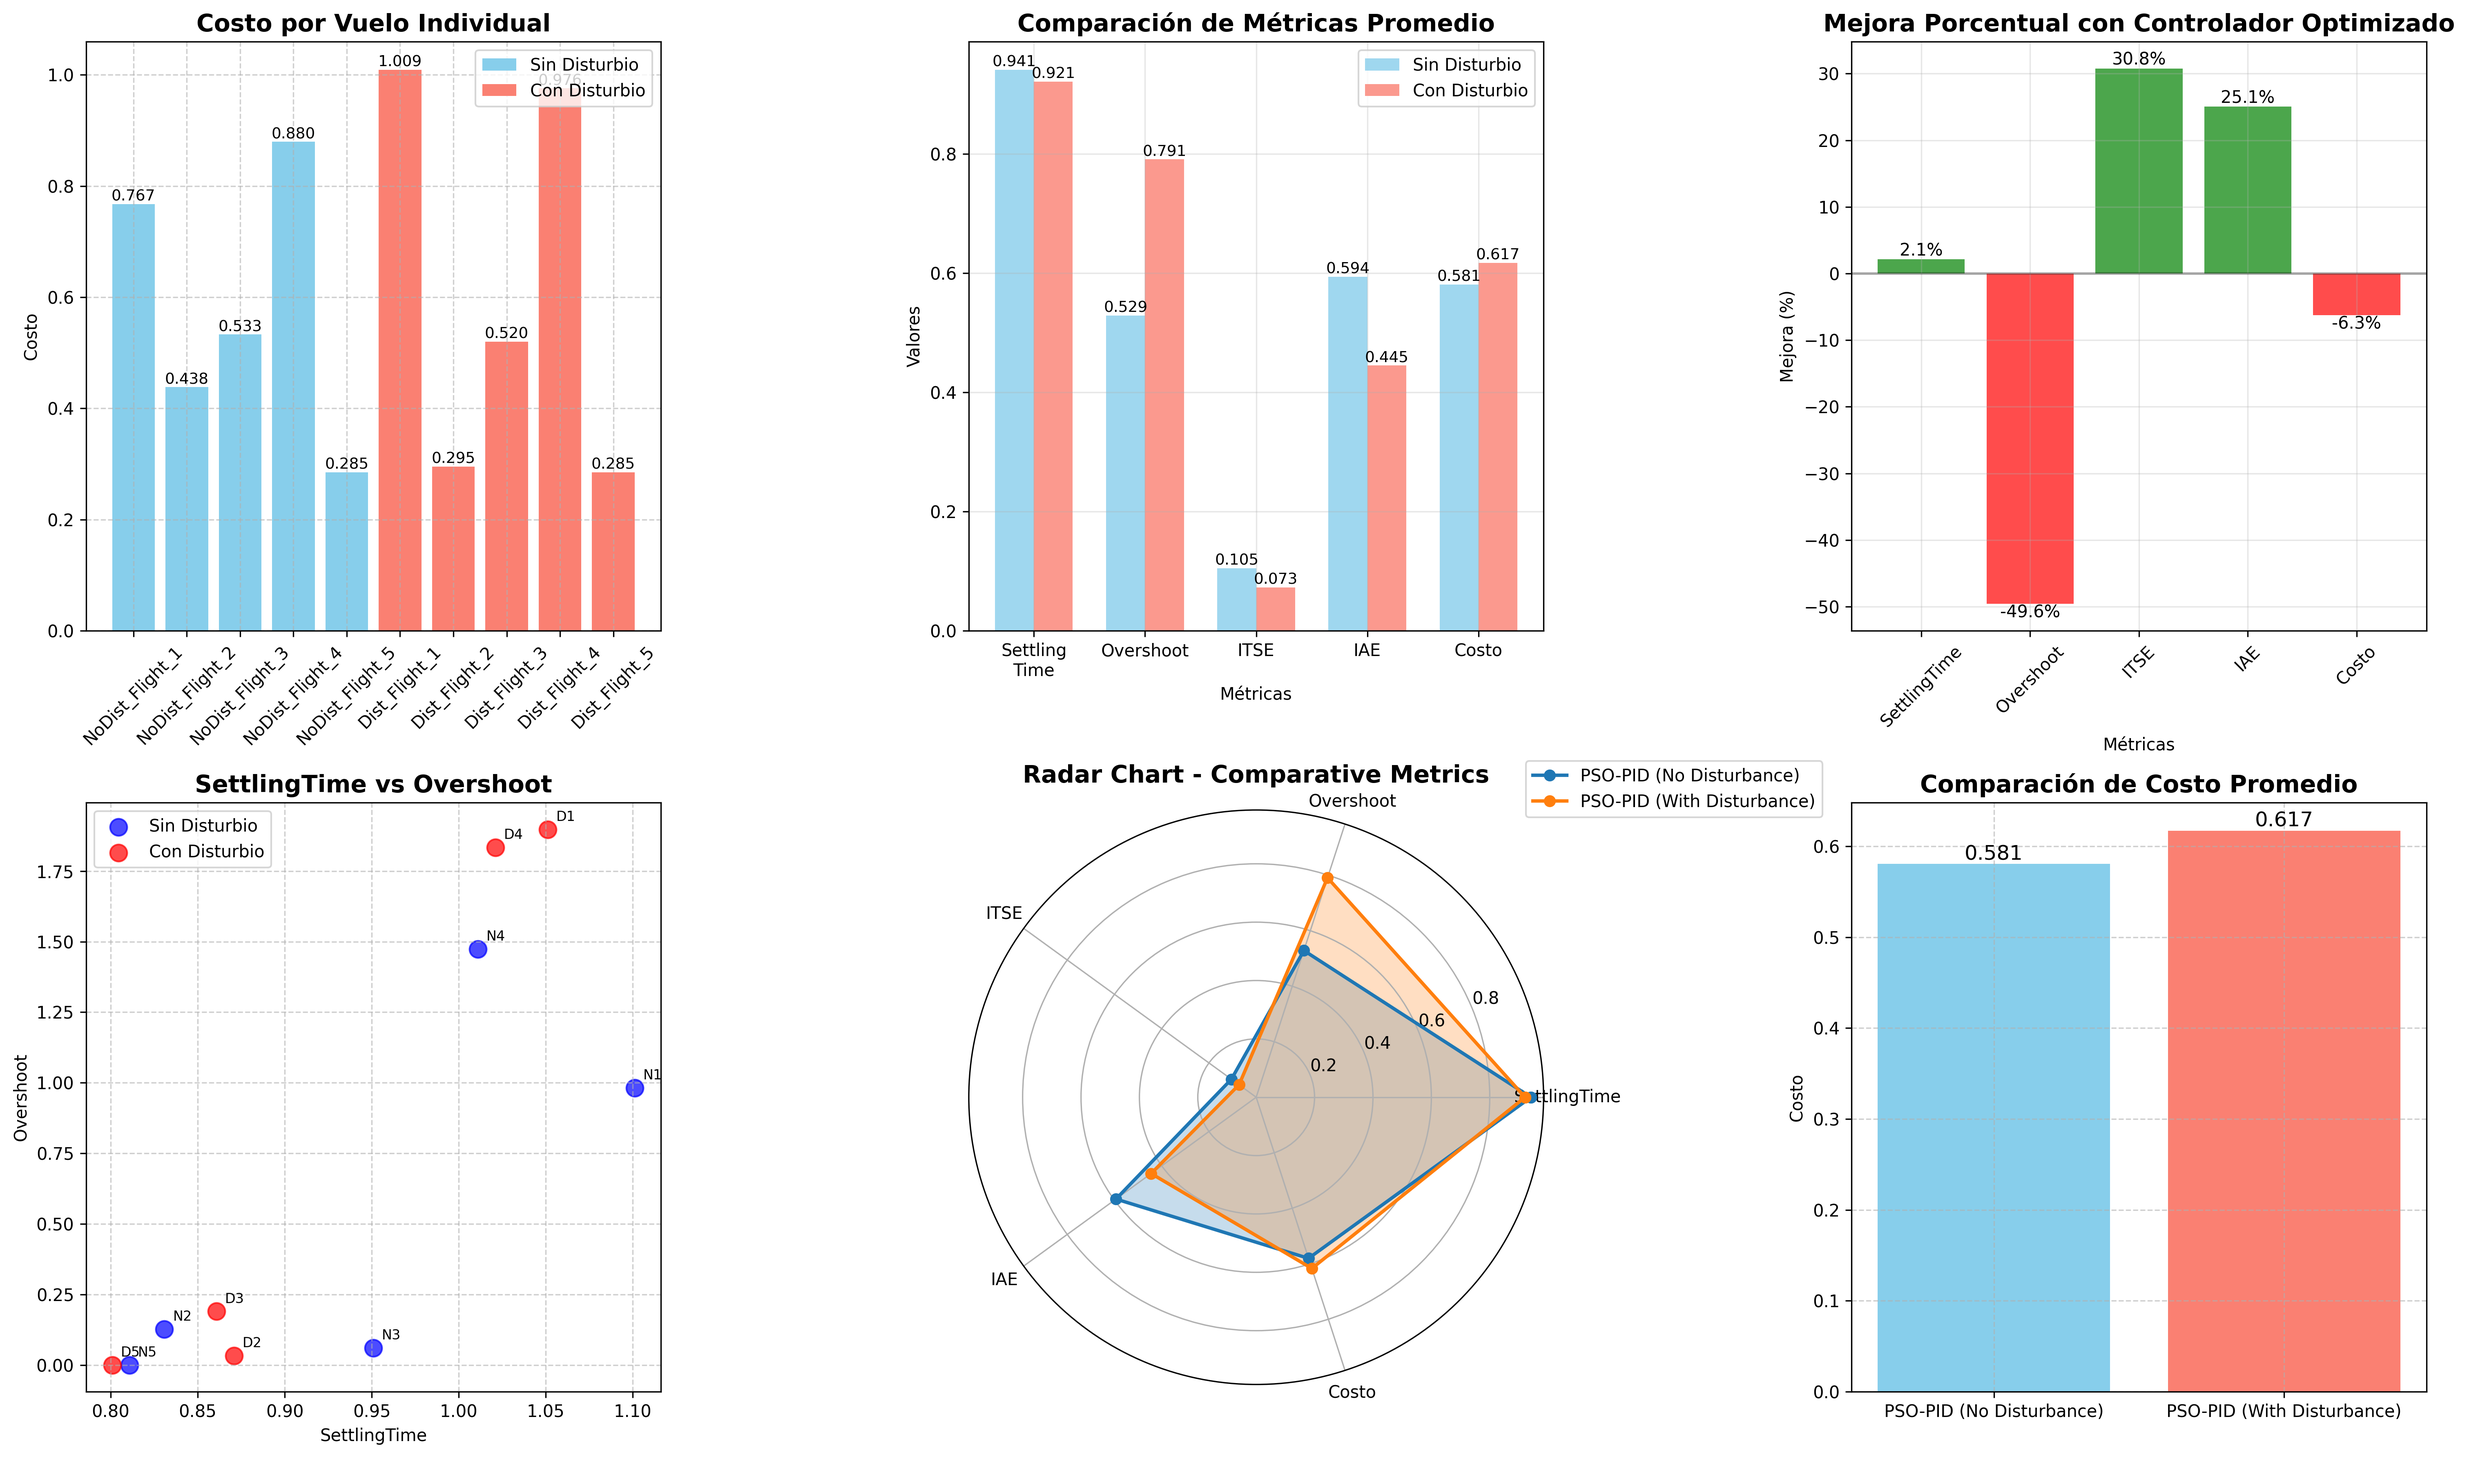
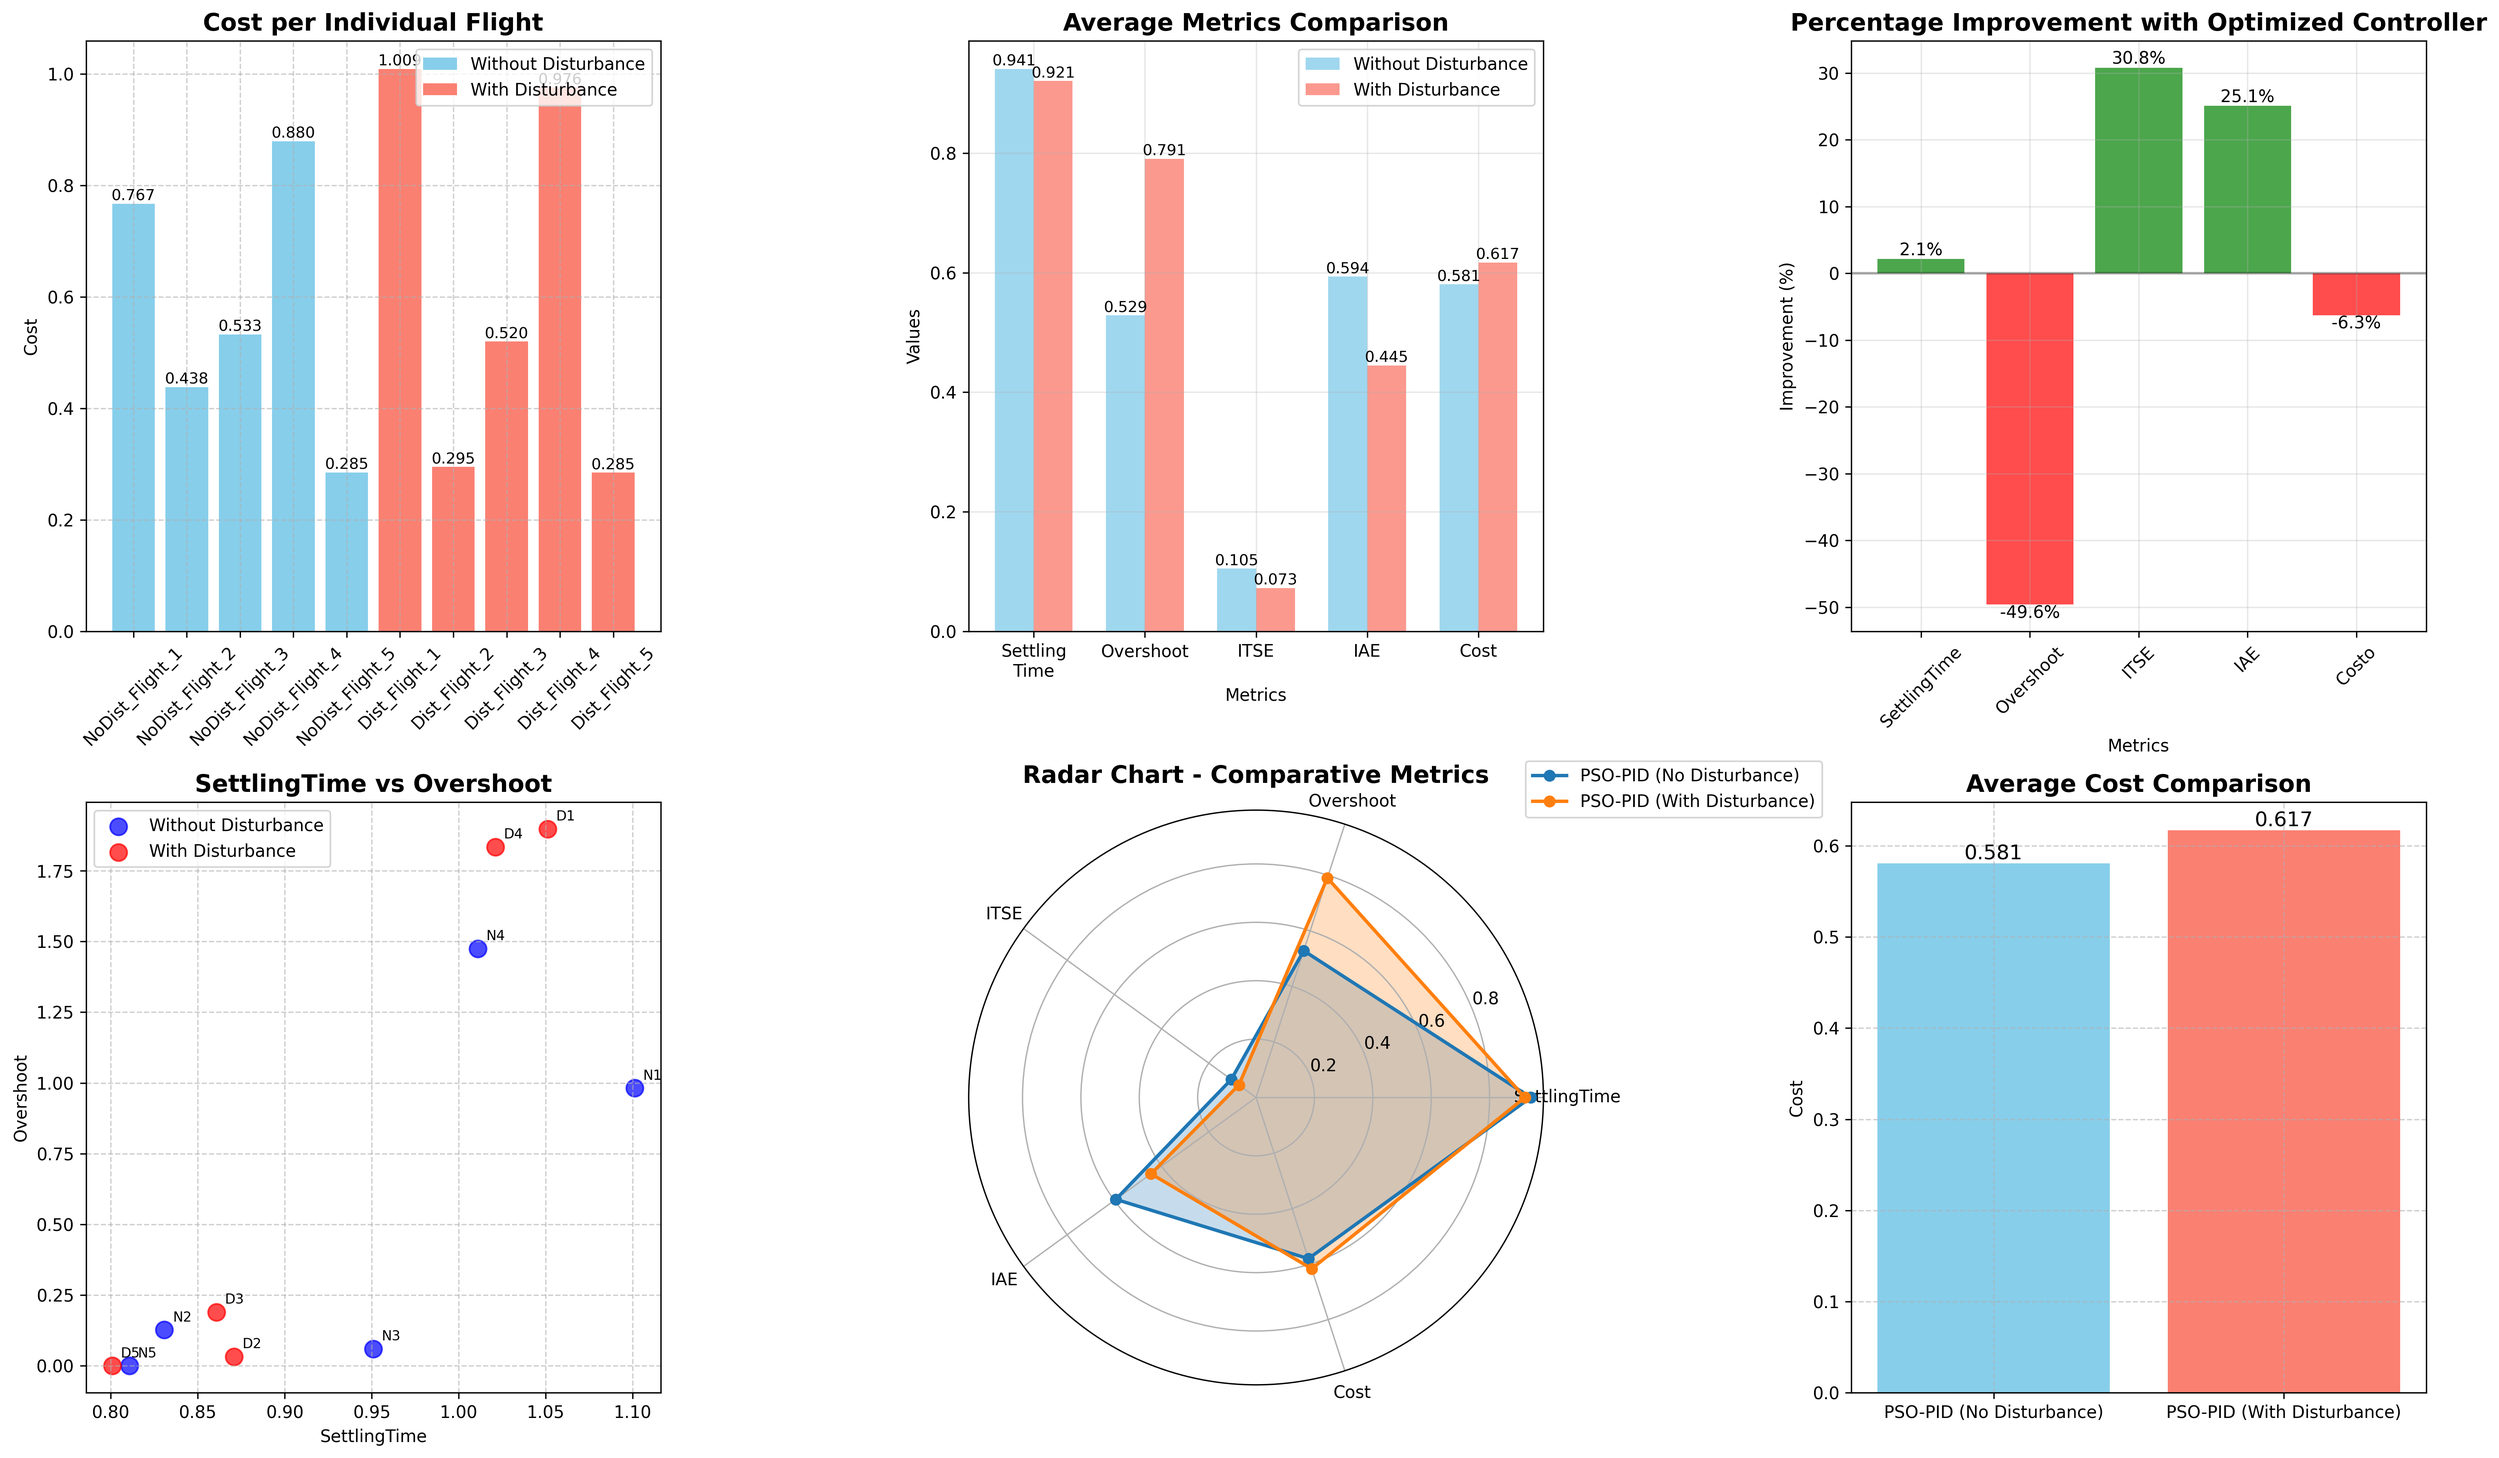
update

diff --git a/Comparison.py b/Comparison.py
@@ -4,10 +4,10 @@ import numpy as np
 from matplotlib.patches import Patch
 
 # ==========================================================
-# Resultados obtenidos
+# Results Obtained
 # ==========================================================
 
-# --- Resultados SIN disturbio ---
+# --- Results WITHOUT disturbance ---
 resultados_no_dist = [
     [1.101101101, 0.981613847, 0.08759185 , 0.625743666],
     [0.830830831, 0.127173193, 0.112271798, 0.642020181],
@@ -16,7 +16,7 @@ resultados_no_dist = [
     [0.810810811, 0.0        , 0.011456358, 0.197389013]
 ]
 
-# --- Resultados CON disturbio ---
+# --- Results WITH disturbance ---
 resultados_dist = [
     [1.051051051, 1.897292264, 0.075040146, 0.548239485],
     [0.870870871, 0.032821126, 0.003134391, 0.11741169 ],
@@ -26,7 +26,7 @@ resultados_dist = [
 ]
 
 # ==========================================================
-# Crear DataFrames
+# Create DataFrames
 # ==========================================================
 df_no_dist = pd.DataFrame(resultados_no_dist, columns=["SettlingTime","Overshoot","ITSE","IAE"])
 df_disturbio = pd.DataFrame(resultados_dist, columns=["SettlingTime","Overshoot","ITSE","IAE"])
@@ -41,7 +41,7 @@ df_disturbio['Type'] = 'With Disturbance'
 df_combined = pd.concat([df_no_dist, df_disturbio], ignore_index=True)
 
 # ==========================================================
-# Definir pesos de la función de costo
+# Define cost function weights
 # ==========================================================
 w_settle, w_overshoot, w_itse, w_iae = 0.3, 0.3, 0.2, 0.2
 
@@ -51,13 +51,13 @@ def cost_function(settle, overshoot, itse, iae):
             w_itse*itse +
             w_iae*iae)
 
-# Agregar columna de costo
+# Add cost column
 df_no_dist["Costo"] = df_no_dist.apply(lambda row: cost_function(row["SettlingTime"], row["Overshoot"], row["ITSE"], row["IAE"]), axis=1)
 df_disturbio["Costo"] = df_disturbio.apply(lambda row: cost_function(row["SettlingTime"], row["Overshoot"], row["ITSE"], row["IAE"]), axis=1)
 df_combined["Costo"] = df_combined.apply(lambda row: cost_function(row["SettlingTime"], row["Overshoot"], row["ITSE"], row["IAE"]), axis=1)
 
 # ==========================================================
-# Calcular promedios y mejoras
+# Calculate averages and improvements
 # ==========================================================
 resumen = pd.DataFrame({
     "Controller": ["PSO-PID (No Disturbance)", "PSO-PID (With Disturbance)"],
@@ -83,24 +83,24 @@ resumen_improvement = pd.DataFrame({
     "Improvement (%)": improvements
 })
 
-print("\n=== Tabla comparativa de promedios ===\n")
+print("\n=== Comparative Averages Table ===\n")
 print(resumen)
 
-print("\n=== Mejora porcentual ===\n")
+print("\n=== Percentage Improvement ===\n")
 print(resumen_improvement)
 
 # ==========================================================
-# Visualización mejorada para presentación
+# Enhanced visualization for presentation
 # ==========================================================
 plt.style.use('default')
 fig = plt.figure(figsize=(20, 12))
 
-# 1. Comparación de costos individuales
+# 1. Individual cost comparison
 ax1 = plt.subplot(2, 3, 1)
 colors = ['skyblue']*5 + ['salmon']*5
 bars = ax1.bar(df_combined['Flight'], df_combined['Costo'], color=colors)
-ax1.set_title("Costo por Vuelo Individual", fontsize=14, fontweight='bold')
-ax1.set_ylabel("Costo")
+ax1.set_title("Cost per Individual Flight", fontsize=14, fontweight='bold')
+ax1.set_ylabel("Cost")
 ax1.tick_params(axis='x', rotation=45)
 ax1.grid(True, linestyle="--", alpha=0.6)
 
@@ -111,11 +111,11 @@ for bar in bars:
             f'{height:.3f}', ha='center', va='bottom', fontsize=9)
 
 # Add legend
-legend_elements = [Patch(facecolor='skyblue', label='Sin Disturbio'),
-                  Patch(facecolor='salmon', label='Con Disturbio')]
+legend_elements = [Patch(facecolor='skyblue', label='Without Disturbance'),
+                  Patch(facecolor='salmon', label='With Disturbance')]
 ax1.legend(handles=legend_elements, loc='upper right')
 
-# 2. Comparación de métricas promedio
+# 2. Average metrics comparison
 ax2 = plt.subplot(2, 3, 2)
 metrics = ['SettlingTime', 'Overshoot', 'ITSE', 'IAE', 'Costo']
 x_pos = np.arange(len(metrics))
@@ -124,14 +124,14 @@ width = 0.35
 no_dist_vals = [resumen.iloc[0][m] for m in metrics]
 with_dist_vals = [resumen.iloc[1][m] for m in metrics]
 
-bars1 = ax2.bar(x_pos - width/2, no_dist_vals, width, label='Sin Disturbio', alpha=0.8, color='skyblue')
-bars2 = ax2.bar(x_pos + width/2, with_dist_vals, width, label='Con Disturbio', alpha=0.8, color='salmon')
+bars1 = ax2.bar(x_pos - width/2, no_dist_vals, width, label='Without Disturbance', alpha=0.8, color='skyblue')
+bars2 = ax2.bar(x_pos + width/2, with_dist_vals, width, label='With Disturbance', alpha=0.8, color='salmon')
 
-ax2.set_xlabel('Métricas')
-ax2.set_ylabel('Valores')
-ax2.set_title('Comparación de Métricas Promedio', fontsize=14, fontweight='bold')
+ax2.set_xlabel('Metrics')
+ax2.set_ylabel('Values')
+ax2.set_title('Average Metrics Comparison', fontsize=14, fontweight='bold')
 ax2.set_xticks(x_pos)
-ax2.set_xticklabels(['Settling\nTime', 'Overshoot', 'ITSE', 'IAE', 'Costo'])
+ax2.set_xticklabels(['Settling\nTime', 'Overshoot', 'ITSE', 'IAE', 'Cost'])
 ax2.legend()
 ax2.grid(True, alpha=0.3)
 
@@ -142,13 +142,13 @@ for bars in [bars1, bars2]:
         ax2.text(bar.get_x() + bar.get_width()/2., height,
                 f'{height:.3f}', ha='center', va='bottom', fontsize=9)
 
-# 3. Mejora porcentual
+# 3. Percentage improvement
 ax3 = plt.subplot(2, 3, 3)
 colors = ['green' if imp > 0 else 'red' for imp in resumen_improvement['Improvement (%)']]
 bars = ax3.bar(resumen_improvement['Metric'], resumen_improvement['Improvement (%)'], color=colors, alpha=0.7)
-ax3.set_xlabel('Métricas')
-ax3.set_ylabel('Mejora (%)')
-ax3.set_title('Mejora Porcentual con Controlador Optimizado', fontsize=14, fontweight='bold')
+ax3.set_xlabel('Metrics')
+ax3.set_ylabel('Improvement (%)')
+ax3.set_title('Percentage Improvement with Optimized Controller', fontsize=14, fontweight='bold')
 ax3.axhline(y=0, color='black', linestyle='-', alpha=0.3)
 ax3.tick_params(axis='x', rotation=45)
 ax3.grid(True, alpha=0.3)
@@ -159,19 +159,19 @@ for bar in bars:
     ax3.text(bar.get_x() + bar.get_width()/2., height,
             f'{height:.1f}%', ha='center', va='bottom' if height > 0 else 'top', fontsize=10)
 
-# 4. Scatter plot de SettlingTime vs Overshoot
+# 4. Scatter plot of SettlingTime vs Overshoot
 ax4 = plt.subplot(2, 3, 4)
-scatter1 = ax4.scatter(df_no_dist['SettlingTime'], df_no_dist['Overshoot'], color='blue', 
-            label='Sin Disturbio', s=100, alpha=0.7)
-scatter2 = ax4.scatter(df_disturbio['SettlingTime'], df_disturbio['Overshoot'], color='red', 
-            label='Con Disturbio', s=100, alpha=0.7)
+scatter1 = ax4.scatter(df_no_dist['SettlingTime'], df_no_dist['Overshoot'], color='blue',
+            label='Without Disturbance', s=100, alpha=0.7)
+scatter2 = ax4.scatter(df_disturbio['SettlingTime'], df_disturbio['Overshoot'], color='red',
+            label='With Disturbance', s=100, alpha=0.7)
 
 # Add flight labels
 for i, row in df_no_dist.iterrows():
-    ax4.annotate(f'N{i+1}', (row['SettlingTime'], row['Overshoot']), 
+    ax4.annotate(f'N{i+1}', (row['SettlingTime'], row['Overshoot']),
                 xytext=(5, 5), textcoords='offset points', fontsize=8)
 for i, row in df_disturbio.iterrows():
-    ax4.annotate(f'D{i+1}', (row['SettlingTime'], row['Overshoot']), 
+    ax4.annotate(f'D{i+1}', (row['SettlingTime'], row['Overshoot']),
                 xytext=(5, 5), textcoords='offset points', fontsize=8)
 
 ax4.set_title("SettlingTime vs Overshoot", fontsize=14, fontweight='bold')
@@ -182,14 +182,14 @@ ax4.grid(True, linestyle="--", alpha=0.6)
 
 # 5. Radar chart
 ax5 = plt.subplot(2, 3, 5, polar=True)
-labels = ["SettlingTime", "Overshoot", "ITSE", "IAE", "Costo"]
+labels = ["SettlingTime", "Overshoot", "ITSE", "IAE", "Cost"]
 num_vars = len(labels)
 
-# Valores promedio
+# Average values
 no_dist_values = resumen.iloc[0,1:].values.tolist()
 dist_values = resumen.iloc[1,1:].values.tolist()
 
-# Cerrar el radar (último punto = primer punto)
+# Close the radar (last point = first point)
 angles = np.linspace(0, 2*np.pi, num_vars, endpoint=False).tolist()
 no_dist_values += no_dist_values[:1]
 dist_values += dist_values[:1]
@@ -205,11 +205,11 @@ ax5.set_thetagrids(np.degrees(angles[:-1]), labels)
 ax5.set_title("Radar Chart - Comparative Metrics", fontsize=14, fontweight='bold')
 ax5.legend(loc="upper right", bbox_to_anchor=(1.5, 1.1))
 
-# 6. Costo promedio
+# 6. Average Cost
 ax6 = plt.subplot(2, 3, 6)
 bars = ax6.bar(resumen["Controller"], resumen["Costo"], color=["skyblue","salmon"])
-ax6.set_title("Comparación de Costo Promedio", fontsize=14, fontweight='bold')
-ax6.set_ylabel("Costo")
+ax6.set_title("Average Cost Comparison", fontsize=14, fontweight='bold')
+ax6.set_ylabel("Cost")
 ax6.grid(True, linestyle="--", alpha=0.6)
 
 # Add value labels on bars
@@ -223,19 +223,19 @@ plt.savefig('comprehensive_comparison.png', dpi=300, bbox_inches='tight')
 plt.show()
 
 # ==========================================================
-# Tabla para presentación
+# Table for presentation
 # ==========================================================
 print("\n" + "="*80)
-print("TABLA PARA PRESENTACIÓN - RESUMEN DE RESULTADOS")
+print("PRESENTATION TABLE - RESULTS SUMMARY")
 print("="*80)
 
 presentation_table = pd.DataFrame({
-    'Métrica': ['Tiempo de Estabilización (s)', 'Sobreimpulso (%)', 'ITSE', 'IAE', 'Costo Total'],
-    'Sin Disturbio': [f"{resumen.iloc[0,1]:.3f}", f"{resumen.iloc[0,2]:.3f}", 
+    'Metric': ['Settling Time (s)', 'Overshoot (%)', 'ITSE', 'IAE', 'Total Cost'],
+    'Without Disturbance': [f"{resumen.iloc[0,1]:.3f}", f"{resumen.iloc[0,2]:.3f}",
                      f"{resumen.iloc[0,3]:.3f}", f"{resumen.iloc[0,4]:.3f}", f"{resumen.iloc[0,5]:.3f}"],
-    'Con Disturbio': [f"{resumen.iloc[1,1]:.3f}", f"{resumen.iloc[1,2]:.3f}", 
+    'With Disturbance': [f"{resumen.iloc[1,1]:.3f}", f"{resumen.iloc[1,2]:.3f}",
                      f"{resumen.iloc[1,3]:.3f}", f"{resumen.iloc[1,4]:.3f}", f"{resumen.iloc[1,5]:.3f}"],
-    'Mejora (%)': [f"{improvements[0]:.1f}%", f"{improvements[1]:.1f}%", 
+    'Improvement (%)': [f"{improvements[0]:.1f}%", f"{improvements[1]:.1f}%",
                   f"{improvements[2]:.1f}%", f"{improvements[3]:.1f}%", f"{improvements[4]:.1f}%"]
 })
 
